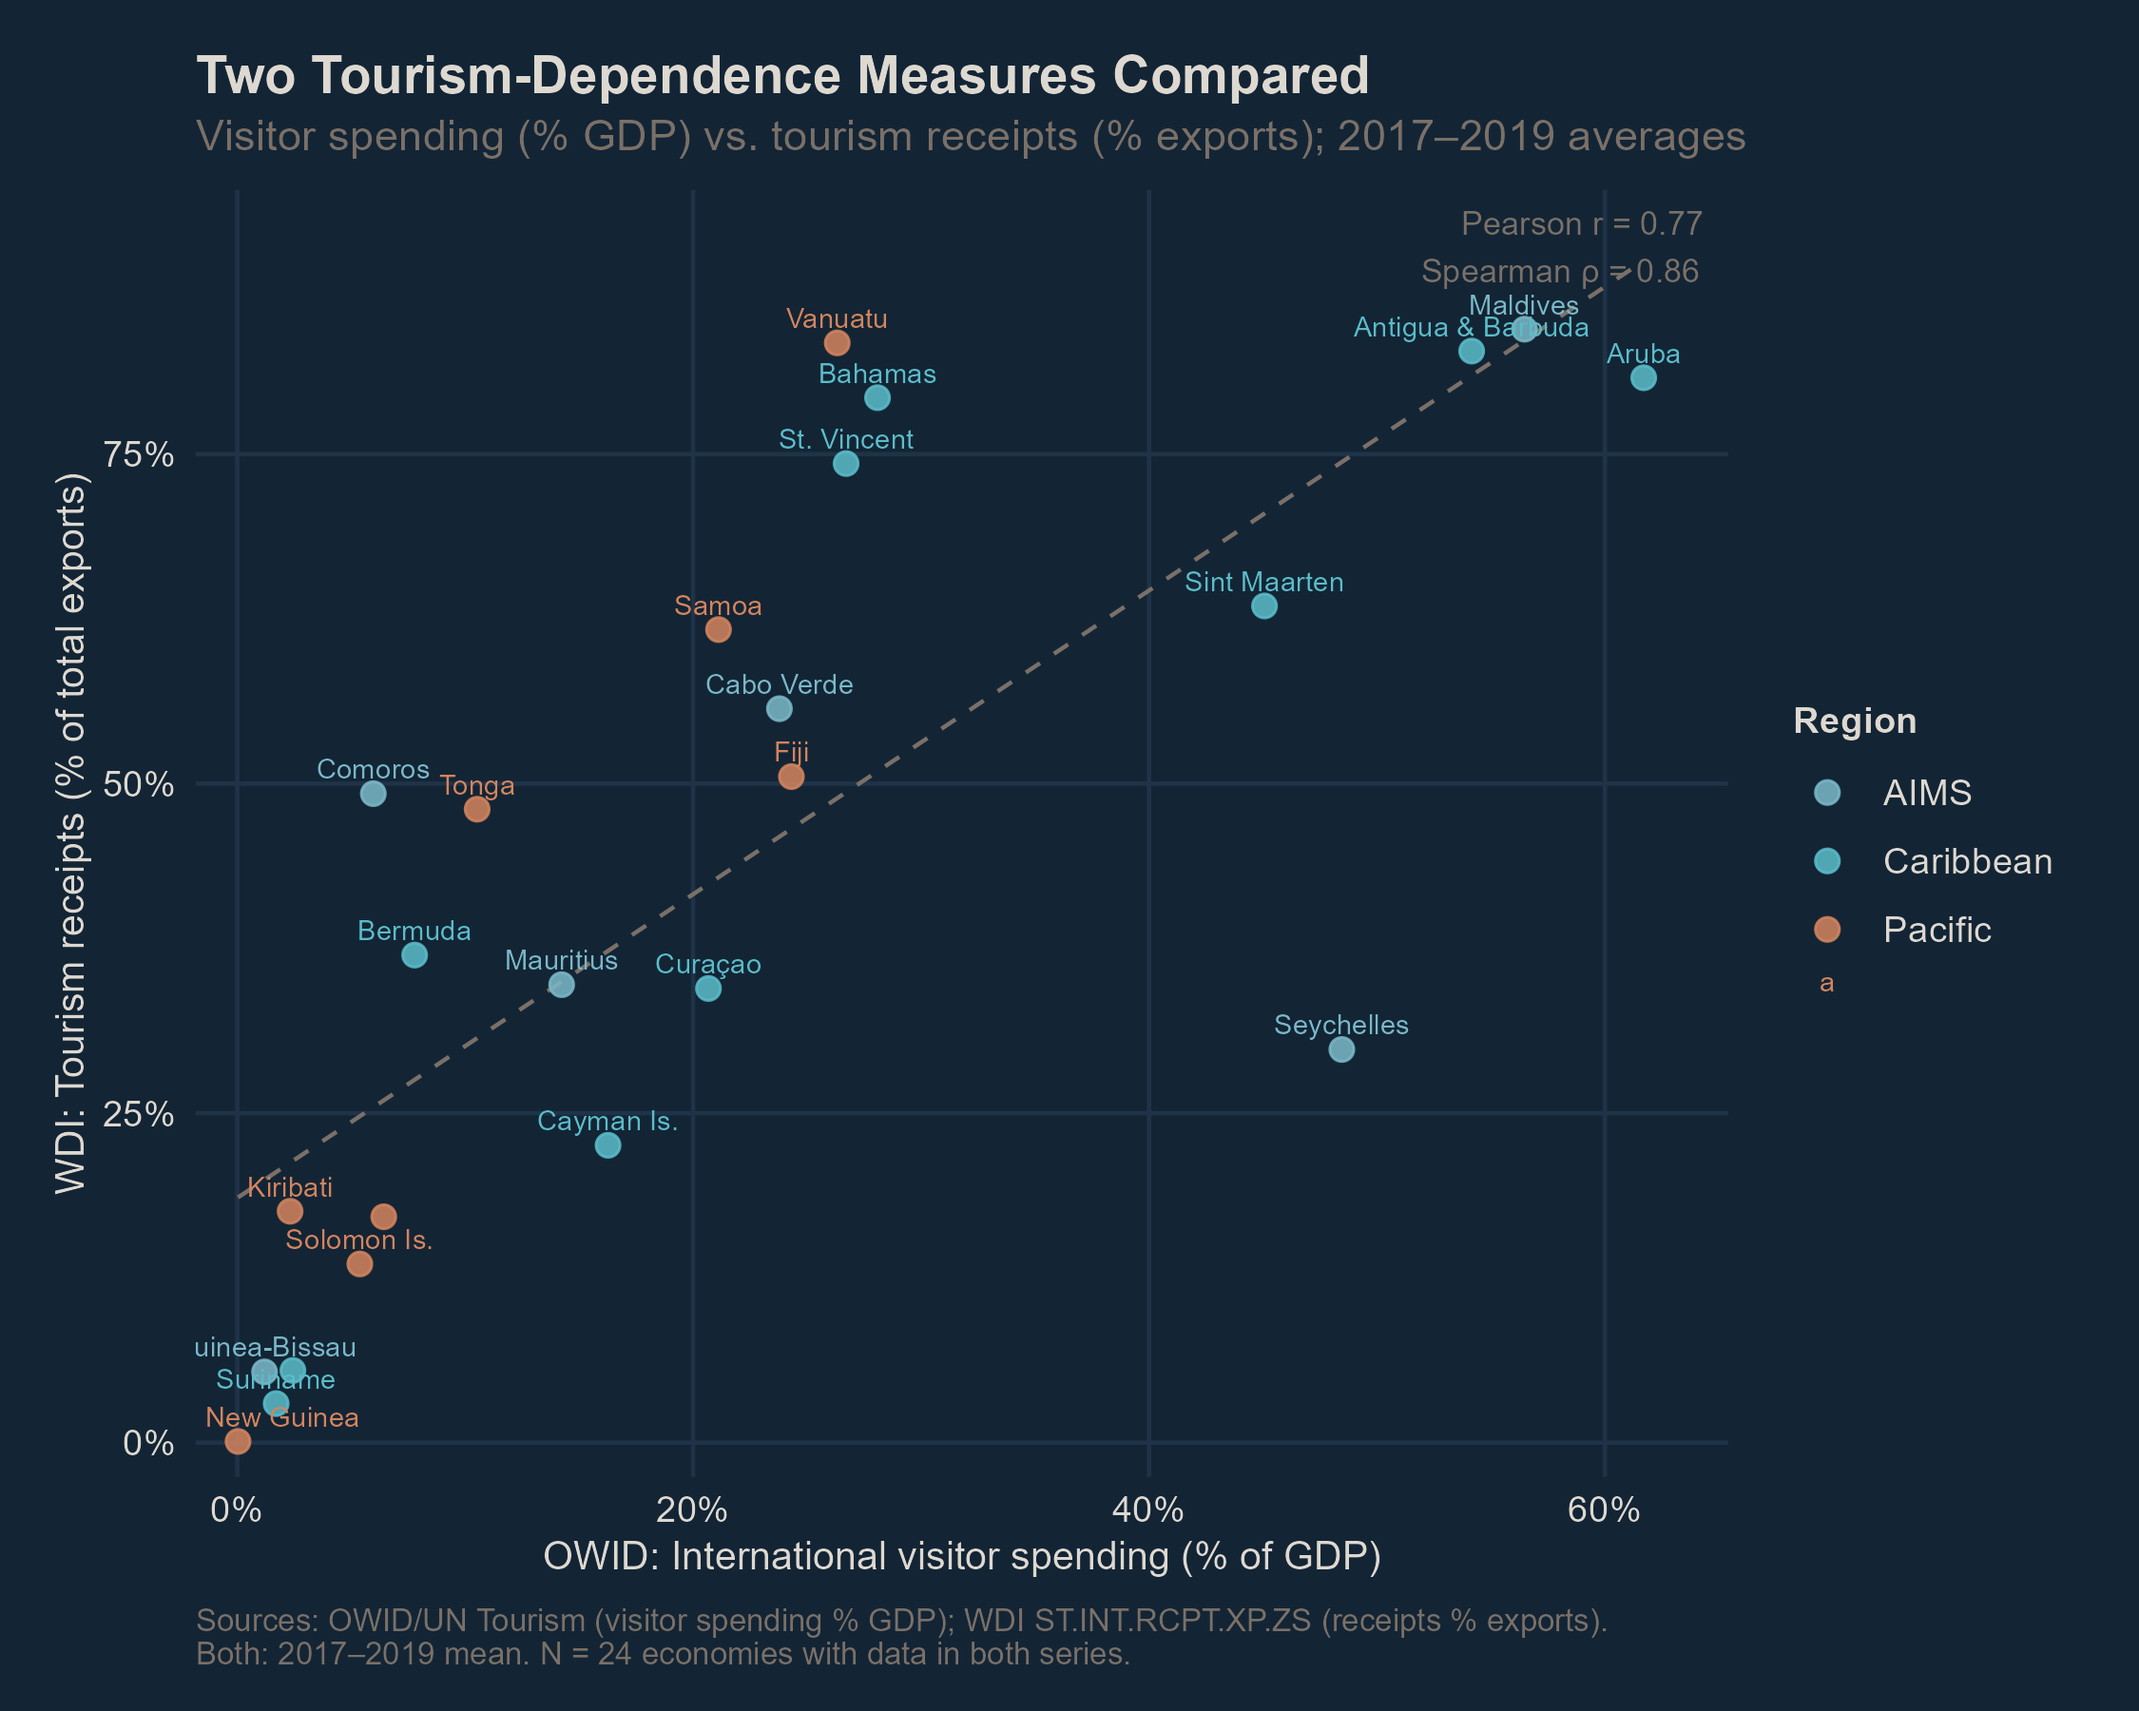
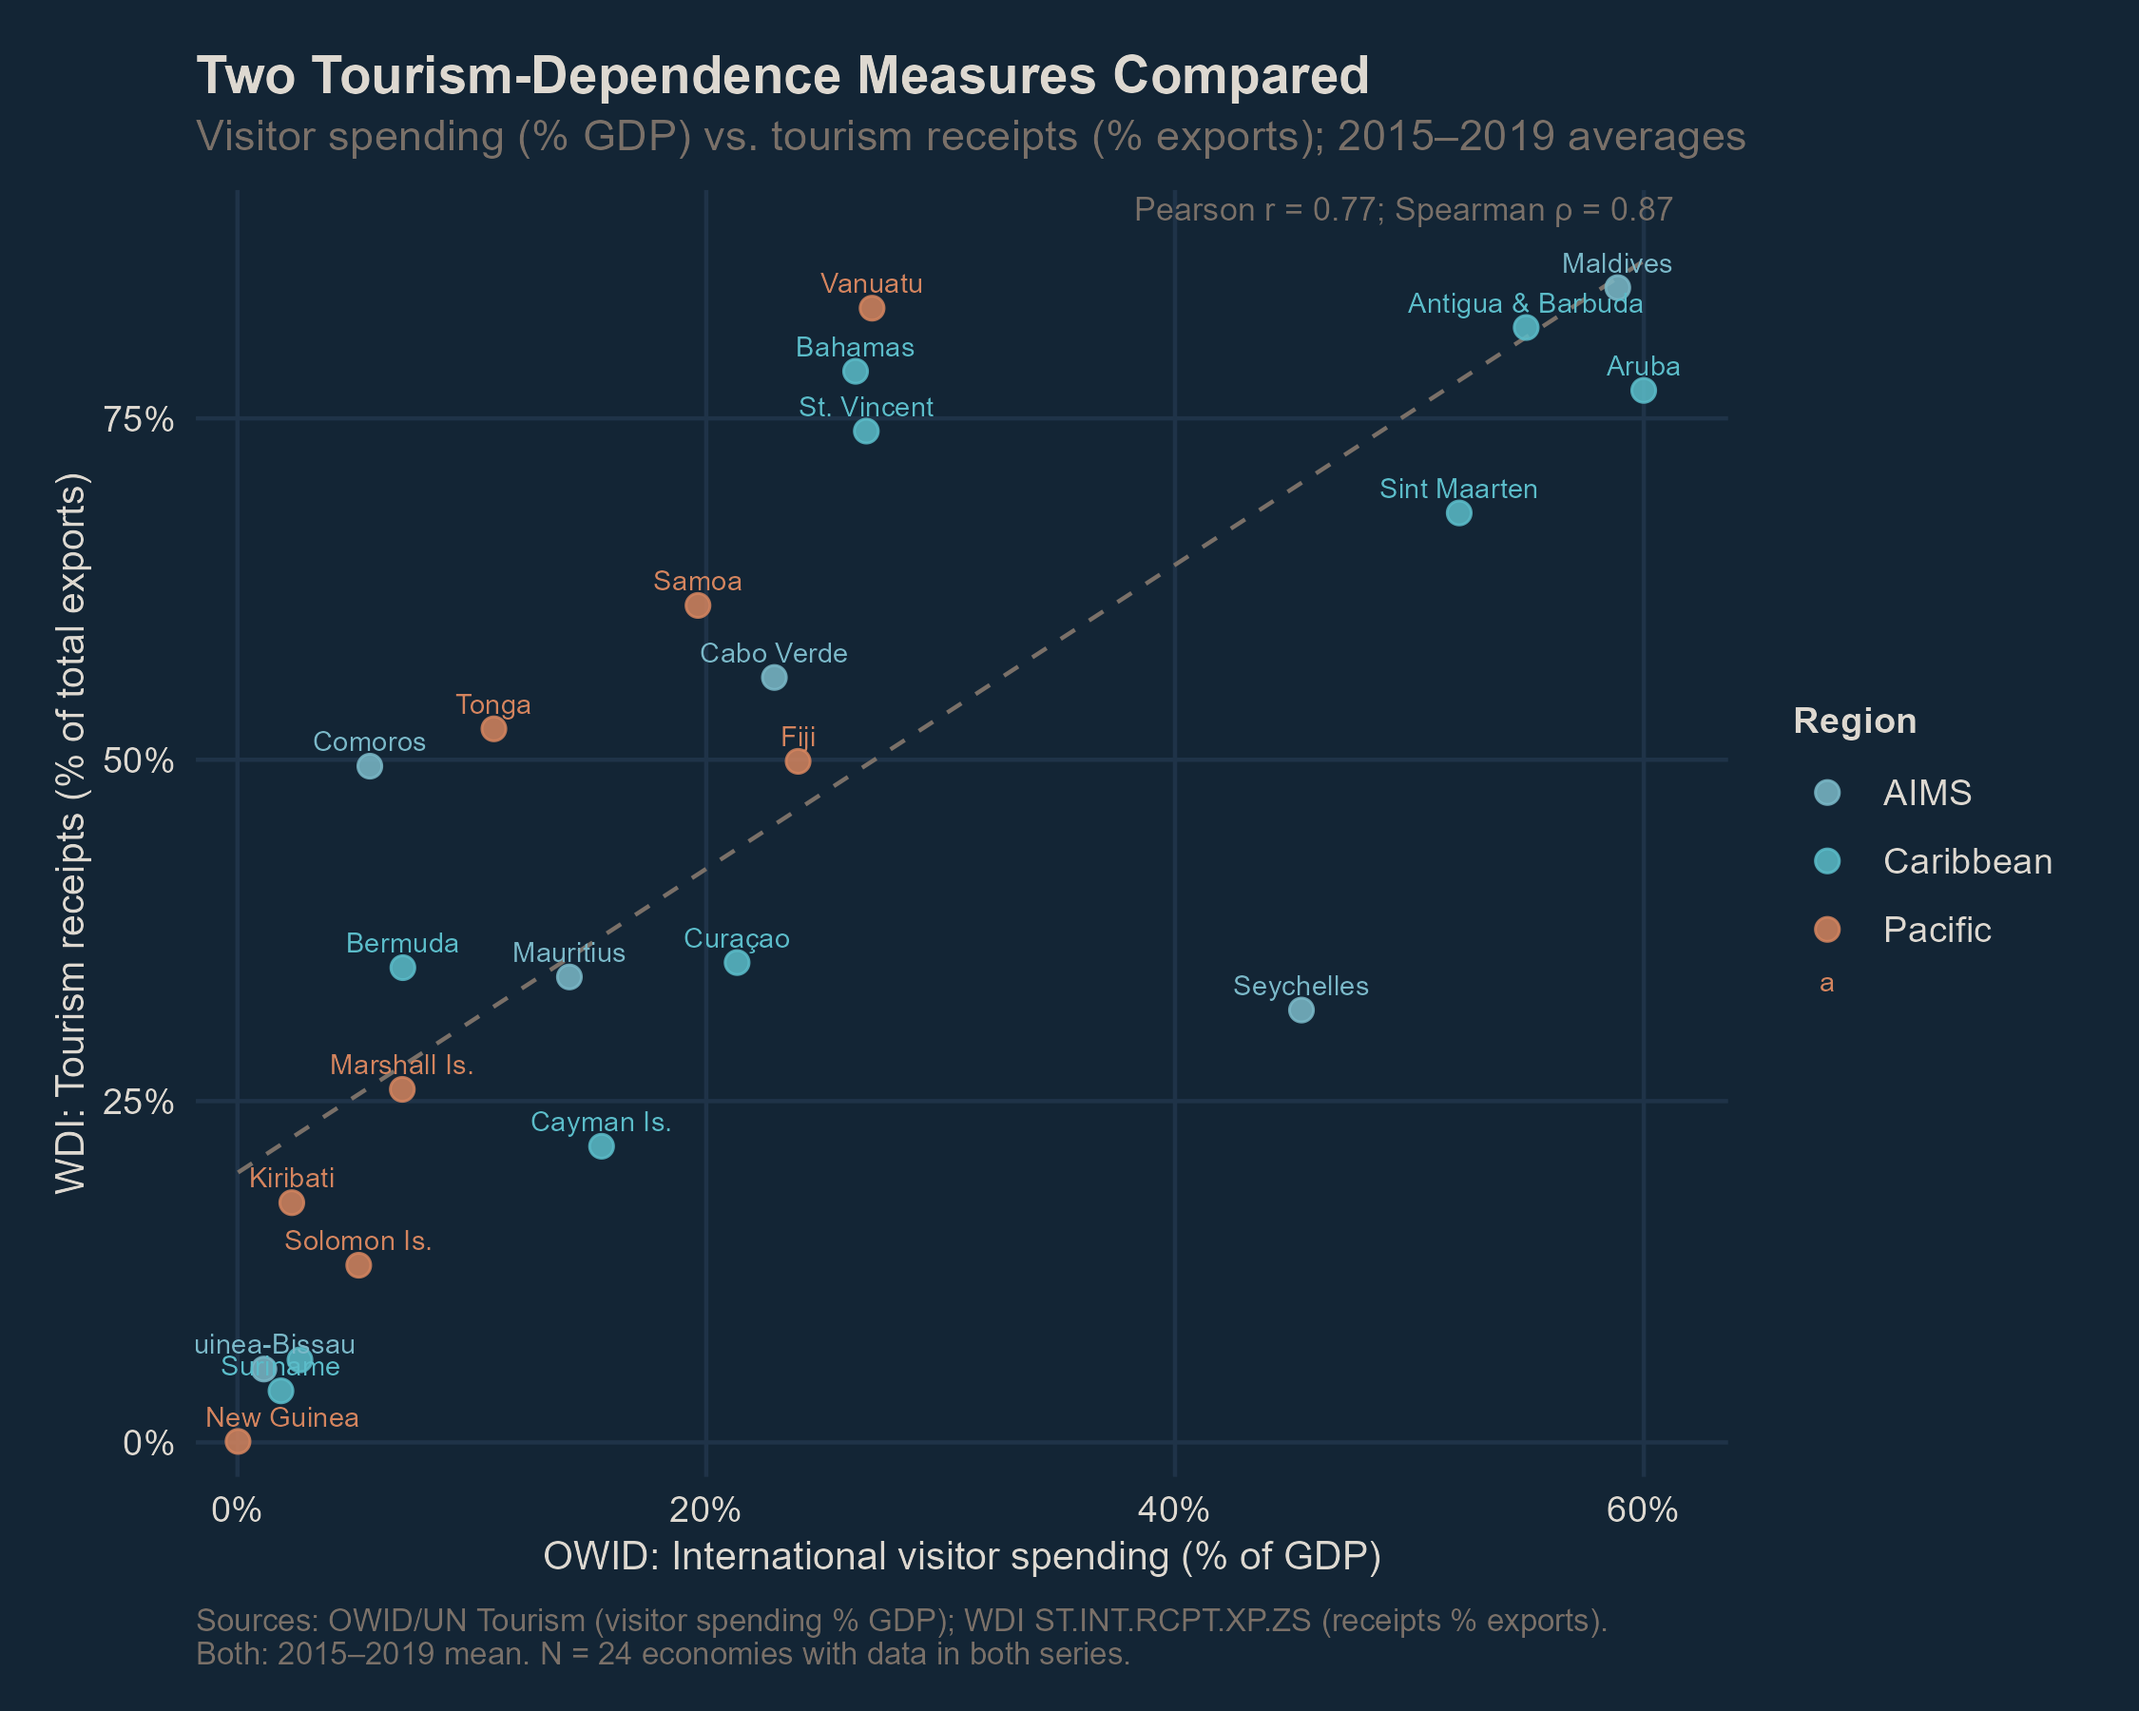
fix: set plot baseline to 2015-2019 for consistency

diff --git a/docs/reports/analysis.html b/docs/reports/analysis.html
@@ -753,7 +753,7 @@ Table&nbsp;4: <strong>Annual observations available within each baseline window.
 </section>
 <section id="how-closely-do-the-indicators-correspond" class="level3">
 <h3 class="anchored" data-anchor-id="how-closely-do-the-indicators-correspond">How closely do the indicators correspond?</h3>
-<p>Across the 24 economies with both measures, the indicators are positively correlated. The Pearson correlation is approximately 0.77; the Spearman rank correlation is 0.86.</p>
+<p>Across the 24 economies with both measures, the indicators are positively correlated. The Pearson correlation is approximately 0.77; the Spearman rank correlation is 0.87.</p>
 <p>The broad rankings are therefore similar, but the indicators are not interchangeable. The export-based denominator can make tourism receipts appear especially important in economies with relatively limited non-tourism exports. The GDP-based denominator instead compares gross visitor spending with the overall scale of the economy.</p>
 <div class="cell light-content">
 <div class="cell-output-display">
